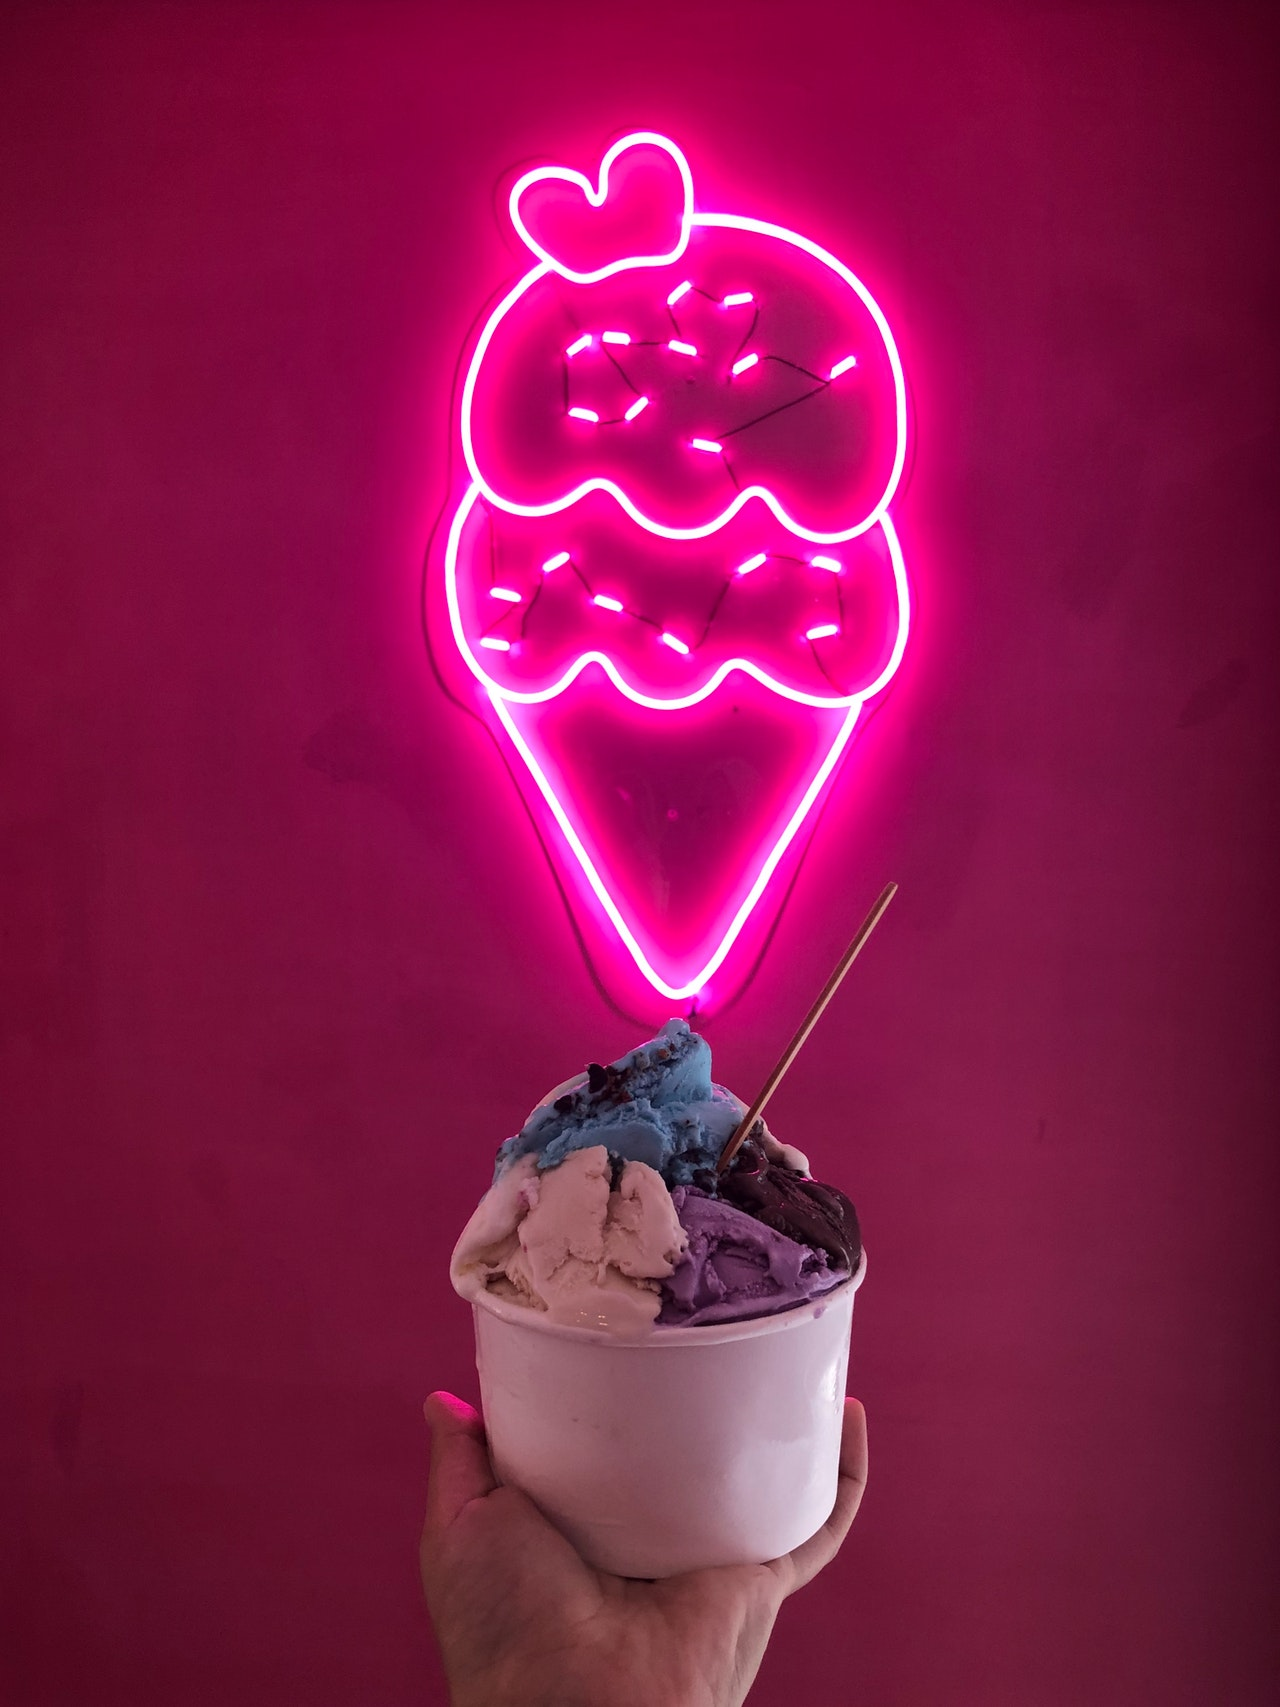
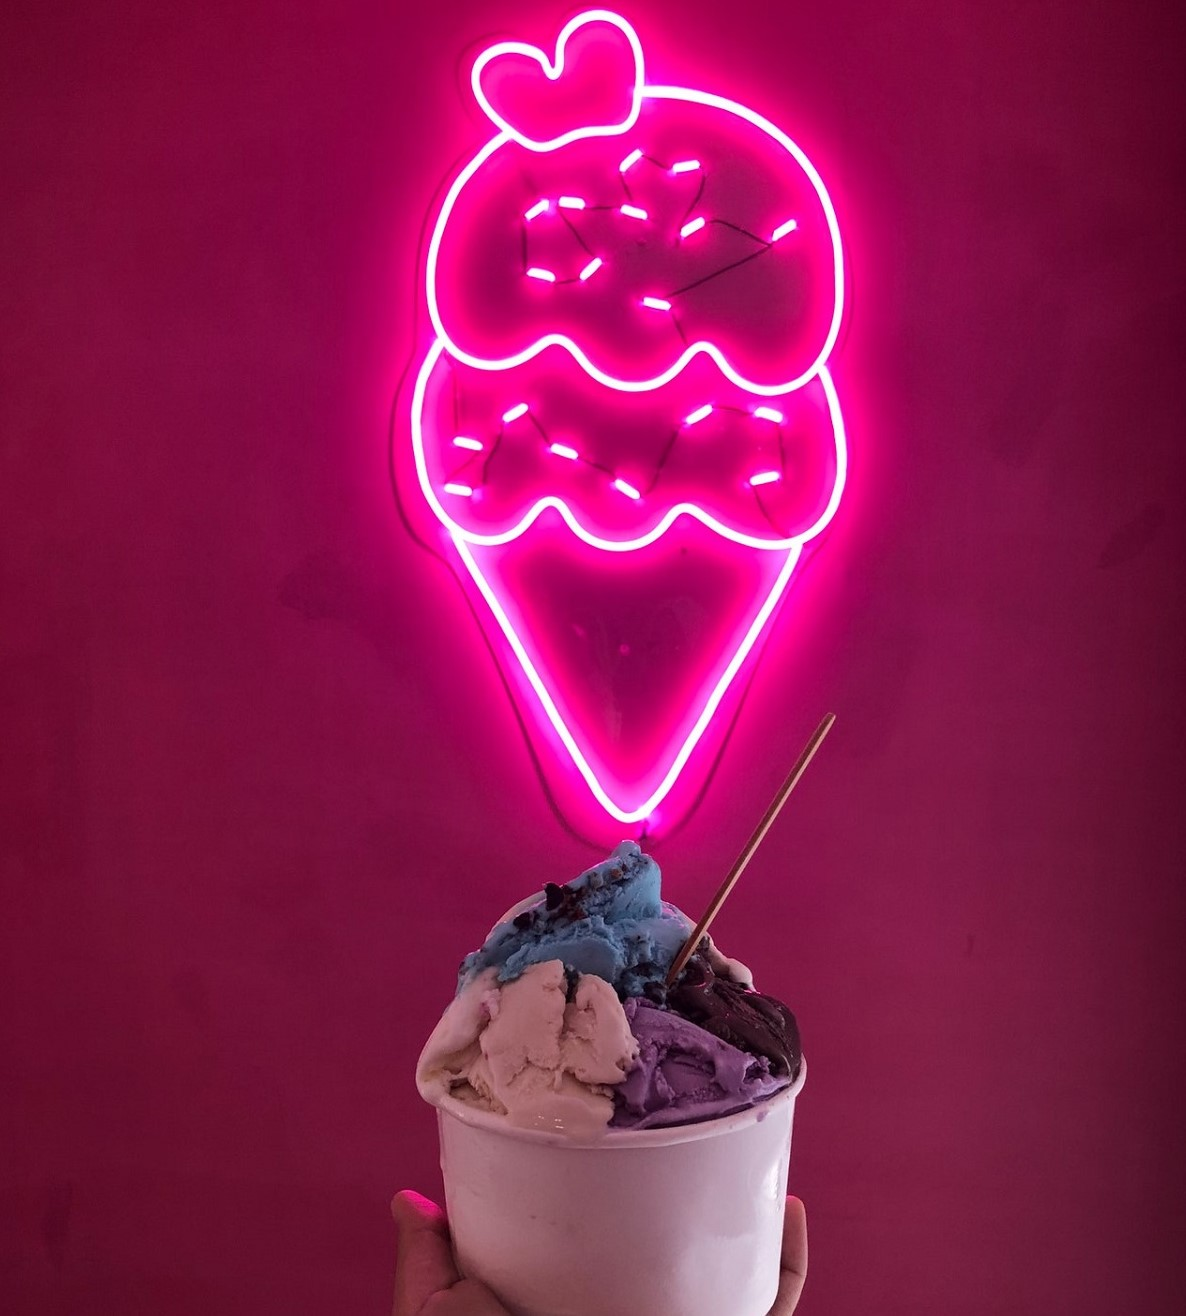
change image

Changed region(s): [[0.312, 0.0, 0.7487, 1.0]]

diff --git a/styles.css b/styles.css
@@ -89,8 +89,8 @@ button {
 @media (max-width: 1199.98px) {
 }
 .image {
-  width: 90%;
-  height: 90%;
+  width: 100%;
+  height: 100%;
 }
 
 @media (max-width: 991.98px) {
@@ -101,12 +101,12 @@ button {
     grid-template-columns: 1fr 1fr;
   }
   .image {
-    width: 70%;
-    height: 60%;
+    width: 100%;
+    height: 100%;
   }
 
   .column-right {
-    padding: 0;
+    padding: 1rem;
   }
 
   .column-left p {
@@ -117,16 +117,16 @@ button {
 
 @media (max-width: 575.98px) {
   .container {
-    grid-template-columns: 1fr 1fr;
+    grid-template-columns: 1fr;
   }
 
   .image {
-    width: 90%;
+    width: 100%;
   }
 
   .column-left p {
     margin-bottom: 0.5rem;
-    font-size: 2.5rem;
+    font-size: 2rem;
   }
   button {
     padding: 0.5rem 1.5rem;
